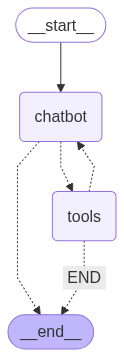
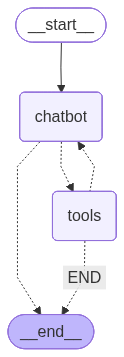
fix: transcription for ambient and wakeword

diff --git a/app/speech_to_text/audio_recorder.py b/app/speech_to_text/audio_recorder.py
@@ -1522,8 +1522,7 @@ class AudioToTextRecorder:
                     )
                     response = self.parent_transcription_pipe.recv()
 
-                    # New format: (status, result, priority, request_id)
-                    status, result, priority, request_id = response
+                    status, result = response
 
                     self.transcribe_count -= 1
 
@@ -2285,7 +2284,7 @@ class AudioToTextRecorder:
                                     logging.debug("Receive from realtime worker after transcription request to main model")
                                     response = self.parent_transcription_pipe.recv()
 
-                                    status, result, priority, request_id = response
+                                    status, result = response
 
                                     if status == "success":
                                         transcription, info, priority, request_id = result
@@ -2455,7 +2454,7 @@ class AudioToTextRecorder:
                                     # Use the main transcription model with low priority
                                     with self.transcription_lock:
                                         chunk_id = f"ambient_{self.ambient_chunk_counter}"
-                                        status, result, priority, request_id = self._send_transcription_request(
+                                        status, result = self._send_transcription_request(
                                             audio,
                                             self.language,
                                             TranscriptionPriority.LOW,